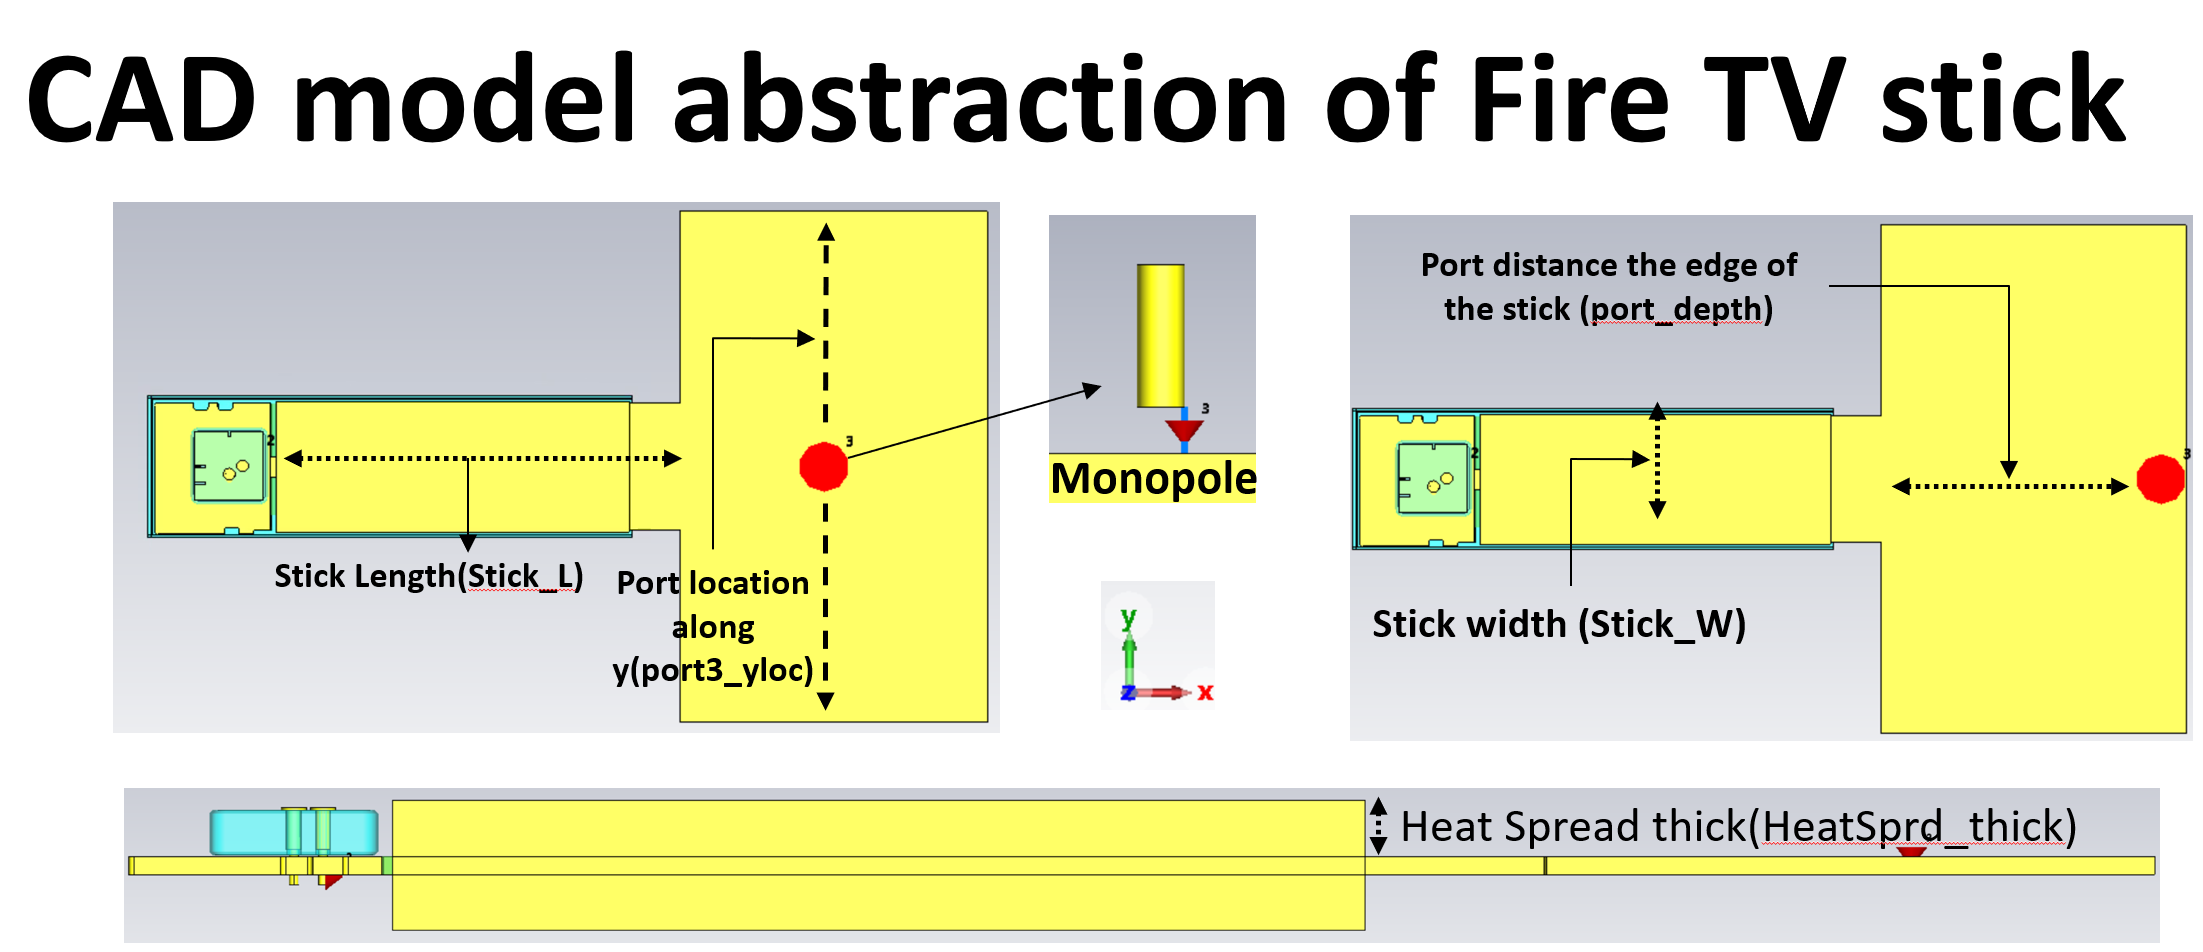
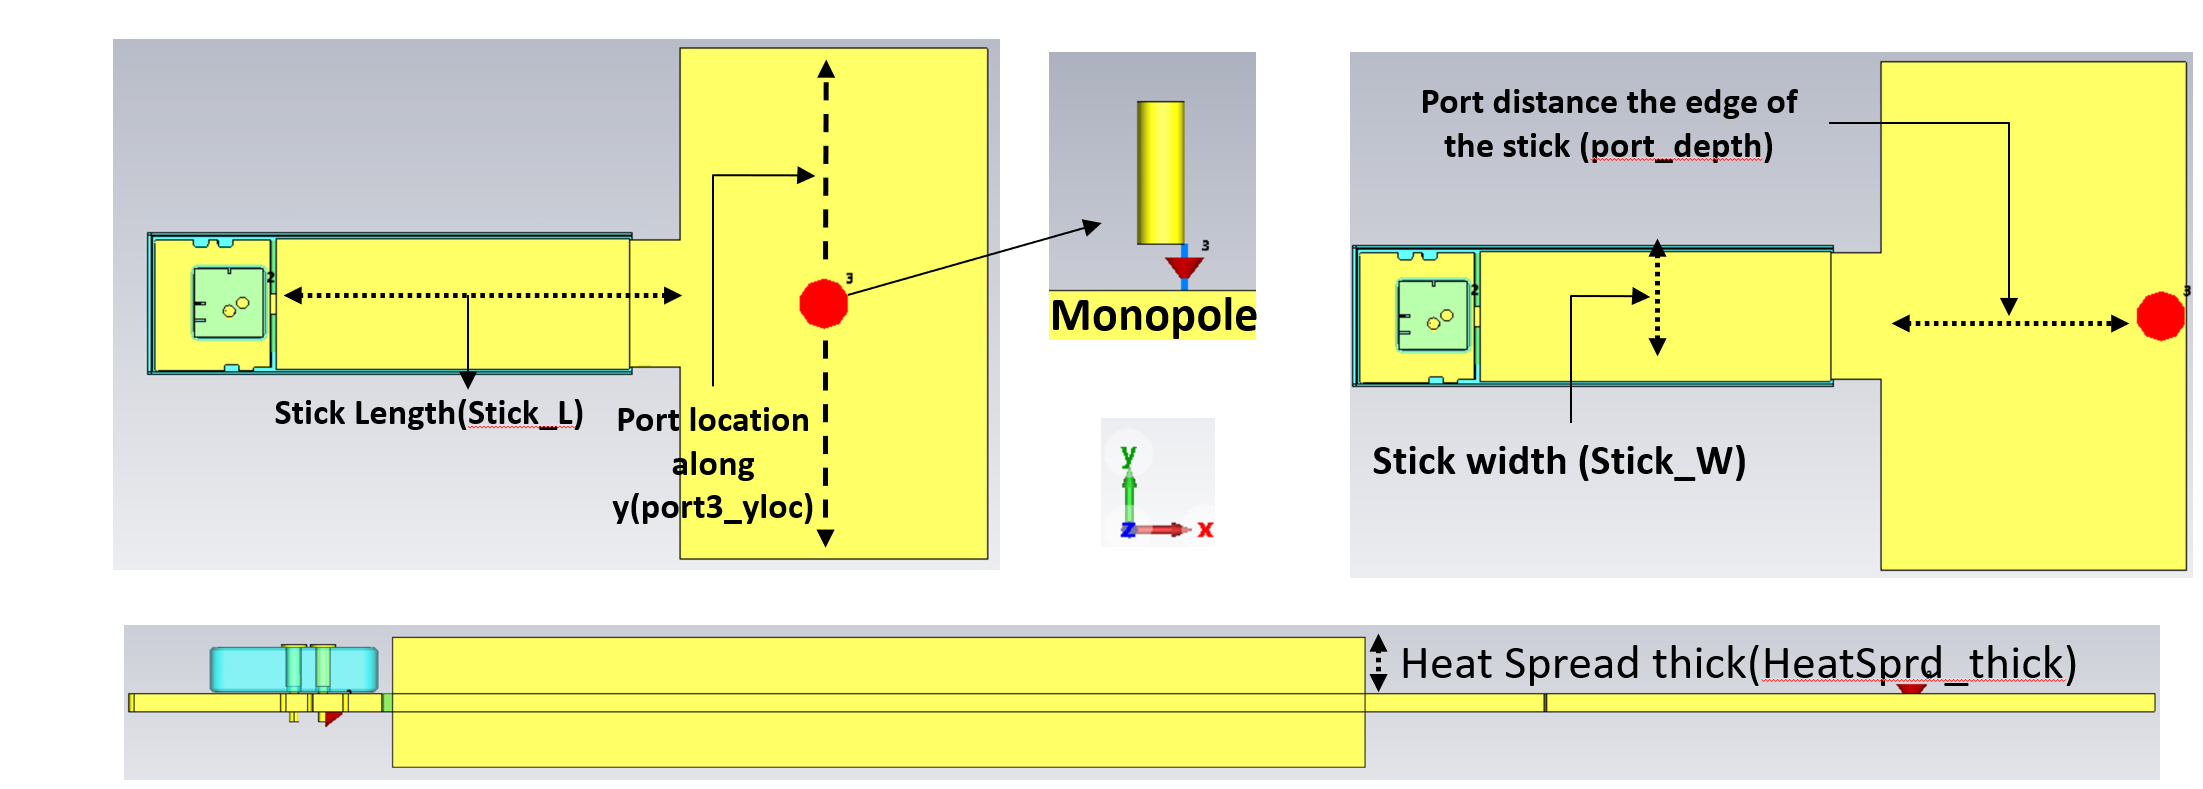
Updated the image sub header and cropped the image

diff --git a/GUI_MIDTERM_APP.py b/GUI_MIDTERM_APP.py
@@ -26,7 +26,7 @@ input_data = pd.DataFrame({
 })
 
 #Displaying a CAD model picture
-st.subheader("CAD Model used for training")
+st.subheader("CAD Model (Fire TV Stick Abstraction) used for training")
 st.image("/mount/src/step2_gui/CAD_model.png", caption="CAD Model", use_container_width=True)
 
 input_data_scaled = scaler.transform(input_data)
